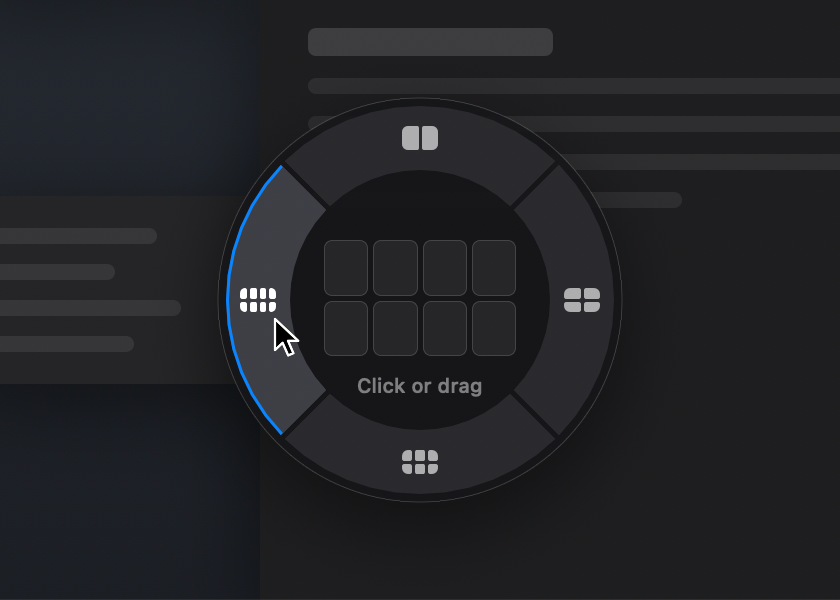
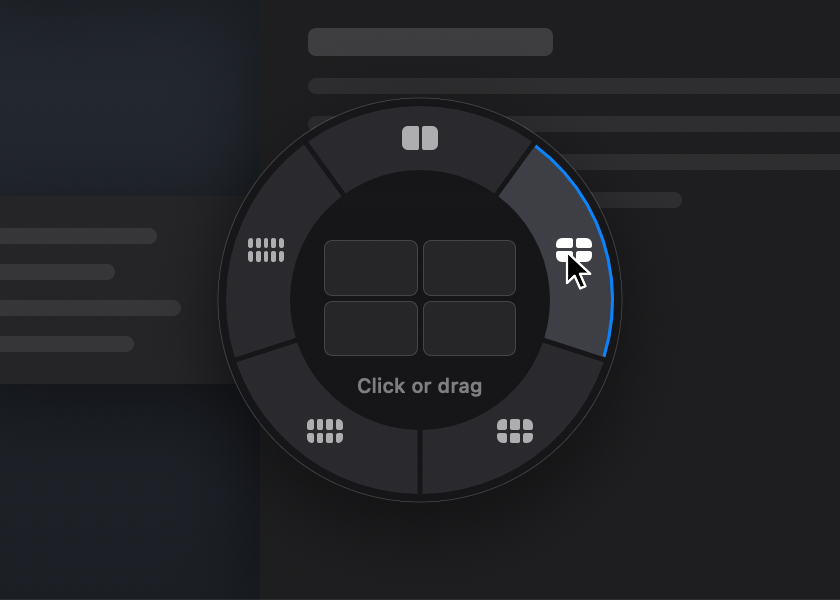
feat: fifth layout family (10 cells, 5x2) with an evenly divided ring
- Ring slices now split the circle by the number of families (72 degrees each)
- Key 0 selects the 10-cell family
- Tests and checks updated for the new angles; README, spec, GIF and images refreshed

diff --git a/Tests/OrbitileCoreTests/LayoutTests.swift b/Tests/OrbitileCoreTests/LayoutTests.swift
@@ -3,11 +3,30 @@ import CoreGraphics
 @testable import OrbitileCore
 
 @Suite struct LayoutTests {
-    @Test func ringPicksFamilyByQuadrant() {
-        #expect(FanGeometry.hit(CGPoint(x: 0, y: -80), expanded: nil) == .family(0))
-        #expect(FanGeometry.hit(CGPoint(x: 80, y: 0), expanded: nil) == .family(1))
-        #expect(FanGeometry.hit(CGPoint(x: 0, y: 80), expanded: nil) == .family(2))
-        #expect(FanGeometry.hit(CGPoint(x: -80, y: 0), expanded: nil) == .family(3))
+    private func onRing(_ degrees: Double, radius: Double = 80) -> CGPoint {
+        CGPoint(x: radius * cos(degrees * .pi / 180), y: radius * sin(degrees * .pi / 180))
+    }
+
+    @Test func ringPicksFamilyByAngle() {
+        for (i, f) in LayoutFamily.all.enumerated() {
+            #expect(FanGeometry.hit(onRing(f.angle), expanded: nil) == .family(i))
+        }
+    }
+
+    @Test func fiveFamiliesSitEvenlyFromTwelveOClock() {
+        let all = LayoutFamily.all
+        #expect(all.map(\.id) == [2, 4, 6, 8, 10])
+        #expect(all.map(\.angle) == [-90, -18, 54, 126, 198])
+        #expect(all[4].cols == 5 && all[4].rows == 2)
+        #expect(LayoutFamily.halfSpan == 36)
+    }
+
+    @Test func boundariesBetweenFamiliesSplitTheArc() {
+        // 36 degrees away from two neighbours: just before the edge belongs to the first, just after to the next.
+        #expect(FanGeometry.hit(onRing(-90 + 35), expanded: nil) == .family(0))
+        #expect(FanGeometry.hit(onRing(-90 + 37), expanded: nil) == .family(1))
+        #expect(FanGeometry.hit(onRing(198 + 35), expanded: nil) == .family(4))
+        #expect(FanGeometry.hit(onRing(198 + 37), expanded: nil) == .family(0))
     }
 
     @Test func centerAndOutsideAreInvalid() {
@@ -55,6 +74,7 @@ import CoreGraphics
 
     @Test func startsOnGivenFamily() {
         #expect(FanState(family: 3).familyIndex == 3)
+        #expect(FanState(family: 4).familyIndex == 4)
         #expect(FanState(family: 9).familyIndex == nil)
         #expect(FanState().familyIndex == nil)
     }
@@ -121,6 +141,14 @@ import CoreGraphics
         let r = FanGeometry.targetRect(eight, from: 2, to: 0, in: area, inset: 0)
         #expect(r == CGRect(x: 0, y: 100, width: 300, height: 100))
         #expect(r == FanGeometry.targetRect(eight, from: 0, to: 2, in: area, inset: 0))
+    }
+
+    @Test func tenCellFamilyMergesAcrossFiveColumns() {
+        let ten = LayoutFamily.all[4]
+        let r = FanGeometry.targetRect(ten, from: 0, to: 9, in: CGRect(x: 0, y: 0, width: 500, height: 200), inset: 0)
+        #expect(r == CGRect(x: 0, y: 0, width: 500, height: 200))
+        let mid = FanGeometry.targetRect(ten, from: 1, to: 3, in: CGRect(x: 0, y: 0, width: 500, height: 200), inset: 0)
+        #expect(mid == CGRect(x: 100, y: 100, width: 300, height: 100))
     }
 
     @Test func singleCellSpanEqualsCell() {

diff --git a/Sources/Orbitile/Scenes.swift b/Sources/Orbitile/Scenes.swift
@@ -30,7 +30,10 @@ enum Scenes {
             let r = FanGeometry.cellRect(family8, index: i)
             return CGPoint(x: center.x + r.midX, y: center.y + r.midY)
         }
-        func ring(_ dx: CGFloat, _ dy: CGFloat) -> CGPoint { CGPoint(x: center.x + dx, y: center.y + dy) }
+        func ring(family index: Int) -> CGPoint {
+            let a = LayoutFamily.all[index].angle * .pi / 180
+            return CGPoint(x: center.x + 82 * cos(a), y: center.y + 82 * sin(a))
+        }
 
         var frames: [Frame] = []
         var cursor = start
@@ -50,9 +53,9 @@ enum Scenes {
         add(10, open: 0, fan: false)                              // desktop, cursor on the window
         for i in 1...3 { add(1, open: Double(i) / 3) }            // 120 ms pop
         add(12)                                                   // family 8 already active
-        move(to: ring(82, 0), frames: 10); add(8)                 // family 4
-        move(to: ring(0, 82), frames: 10); add(8)                 // family 6
-        move(to: ring(-82, 0), frames: 10); add(6)                // family 8
+        move(to: ring(family: 1), frames: 10); add(8)                 // family 4
+        move(to: ring(family: 2), frames: 10); add(8)                 // family 6
+        move(to: ring(family: 3), frames: 10); add(6)                // family 8
         move(to: cellPoint(1), frames: 12); add(8)                // hover a cell
         add(4, drag: true)                                        // press
         move(to: cellPoint(2), frames: 6, drag: true); add(16, drag: true)  // merge, preview
@@ -140,7 +143,7 @@ enum Scenes {
             guard let f = last ? picks.last : picks.first else { return }
             write(f, to: URL(fileURLWithPath: "\(dir)/\(name).png"), scale: 2)
         }
-        still("still-open", where: { $0.showFan && !$0.dragging && $0.openProgress == 1 && $0.cursor.x < 330 })
+        still("still-open", where: { $0.showFan && !$0.dragging && $0.openProgress == 1 && hypot($0.cursor.x - 400, $0.cursor.y - 290) > 75 })
         still("still-click", where: { $0.showFan && $0.dragging })
         still("still-merge", where: { $0.showFan && $0.dragging }, last: true)
         print("frames: \(all.count)")

diff --git a/Sources/OrbitileCore/Layout.swift b/Sources/OrbitileCore/Layout.swift
@@ -2,7 +2,7 @@ import CoreGraphics
 import Foundation
 
 /// A tiling family: how many cells the screen is divided into.
-/// Placed on the fan at 12h (2), 3h (4), 6h (6) and 9h (8).
+/// The families sit evenly around the ring, the first at 12 o'clock, clockwise.
 public struct LayoutFamily: Equatable, Sendable {
     public let id: Int
     public let cols: Int
@@ -16,12 +16,15 @@ public struct LayoutFamily: Equatable, Sendable {
         (index % cols, index / cols)
     }
 
-    public static let all: [LayoutFamily] = [
-        LayoutFamily(id: 2, cols: 2, rows: 1, angle: -90),
-        LayoutFamily(id: 4, cols: 2, rows: 2, angle: 0),
-        LayoutFamily(id: 6, cols: 3, rows: 2, angle: 90),
-        LayoutFamily(id: 8, cols: 4, rows: 2, angle: 180),
-    ]
+    public static let all: [LayoutFamily] = {
+        let grids = [(2, 1), (2, 2), (3, 2), (4, 2), (5, 2)]
+        return grids.enumerated().map { i, g in
+            LayoutFamily(id: g.0 * g.1, cols: g.0, rows: g.1, angle: -90 + 360 / Double(grids.count) * Double(i))
+        }
+    }()
+
+    /// Half of the arc each family owns on the ring.
+    public static var halfSpan: Double { 180 / Double(all.count) }
 }
 
 public enum FanHit: Equatable, Sendable {

diff --git a/Sources/OrbitileChecks/main.swift b/Sources/OrbitileChecks/main.swift
@@ -7,10 +7,11 @@ func expect<T: Equatable>(_ a: T, _ b: T, _ name: String) {
     if a == b { print("ok   \(name)") } else { print("FAIL \(name): \(a) != \(b)"); failures += 1 }
 }
 
-expect(FanGeometry.hit(CGPoint(x: 0, y: -80), expanded: nil), .family(0), "ring 12h -> family 2")
-expect(FanGeometry.hit(CGPoint(x: 80, y: 0), expanded: nil), .family(1), "ring 3h -> family 4")
-expect(FanGeometry.hit(CGPoint(x: 0, y: 80), expanded: nil), .family(2), "ring 6h -> family 6")
-expect(FanGeometry.hit(CGPoint(x: -80, y: 0), expanded: nil), .family(3), "ring 9h -> family 8")
+func onRing(_ degrees: Double) -> CGPoint { CGPoint(x: 80 * cos(degrees * .pi / 180), y: 80 * sin(degrees * .pi / 180)) }
+for (i, f) in LayoutFamily.all.enumerated() {
+    expect(FanGeometry.hit(onRing(f.angle), expanded: nil), .family(i), "ring angle \(f.angle) -> family \(f.id)")
+}
+expect(LayoutFamily.all.map(\.id), [2, 4, 6, 8, 10], "five families: 2, 4, 6, 8, 10")
 expect(FanGeometry.hit(CGPoint(x: 0, y: 40), expanded: nil), .none, "center without grid is invalid")
 expect(FanGeometry.hit(CGPoint(x: 200, y: 0), expanded: nil), .none, "outside fan is invalid")
 

diff --git a/Sources/Orbitile/FanView.swift b/Sources/Orbitile/FanView.swift
@@ -99,13 +99,14 @@ private func polar(_ r: CGFloat, _ degrees: Double) -> CGSize {
     return CGSize(width: r * cos(a), height: r * sin(a))
 }
 
-/// Annular sector centered on `angle`, ±45°, with a constant gap between neighbours.
+/// Annular sector centered on `angle`, covering the family's share of the ring, with a constant gap between neighbours.
 private struct Blade: Shape {
     let r0: CGFloat, r1: CGFloat, angle: Double, gap: CGFloat
 
     func path(in rect: CGRect) -> Path {
         let o = CGPoint(x: rect.midX, y: rect.midY)
-        let a0 = angle - 45, a1 = angle + 45, h = gap / 2
+        let half = LayoutFamily.halfSpan
+        let a0 = angle - half, a1 = angle + half, h = gap / 2
         let dO = asin(min(0.99, h / r1)) * 180 / .pi
         let dI = asin(min(0.99, h / r0)) * 180 / .pi
         let n = 12

diff --git a/Sources/Orbitile/MouseTap.swift b/Sources/Orbitile/MouseTap.swift
@@ -13,10 +13,10 @@ final class MouseTap {
     private static let middleButton: Int64 = 2
     private static let escapeKey: Int64 = 53
 
-    /// Main row and keypad 2 / 4 / 6 / 8 -> family index.
+    /// Main row and keypad 2 / 4 / 6 / 8 / 0 (for 10) -> family index.
     private static let familyKeys: [Int64: Int] = [
-        19: 0, 21: 1, 22: 2, 28: 3,
-        84: 0, 86: 1, 88: 2, 91: 3,
+        19: 0, 21: 1, 22: 2, 28: 3, 29: 4,
+        84: 0, 86: 1, 88: 2, 91: 3, 82: 4,
     ]
 
     private var tap: CFMachPort?

diff --git a/Sources/Orbitile/main.swift b/Sources/Orbitile/main.swift
@@ -175,6 +175,7 @@ func renderSnapshots(to dir: String) {
     render("open", family: 3, cell: nil, drag: nil)
     render("hover", family: 1, cell: 2, drag: nil)
     render("drag", family: 3, cell: 2, drag: 1)
+    render("ten", family: 4, cell: 6, drag: nil)
 
     // Menu bar mark at 1x, 2x and 12x, on light and dark bars.
     let icon = MenuBarIcon.make()

diff --git a/README.md b/README.md
@@ -17,7 +17,7 @@
 
 ## What it does
 
-Hover a window, click the middle button, and a ring of four layouts opens around the cursor. Move to a layout, pick a cell on the mini screen, and the window moves there. A blue preview shows the exact destination on your real screen before you commit.
+Hover a window, click the middle button, and a ring of five layouts opens around the cursor. Move to a layout, pick a cell on the mini screen, and the window moves there. A blue preview shows the exact destination on your real screen before you commit.
 
 | Open | Click a cell | Drag to merge | Preview on screen |
 | :---: | :---: | :---: | :---: |
@@ -26,12 +26,15 @@ Hover a window, click the middle button, and a ring of four layouts opens around
 
 ### Layouts
 
-| Family | Position on the ring | Grid | Key |
-| :---: | :---: | :---: | :---: |
-| 2 | 12 o'clock | 2 × 1 | `2` |
-| 4 | 3 o'clock | 2 × 2 | `4` |
-| 6 | 6 o'clock | 3 × 2 | `6` |
-| 8 | 9 o'clock | 4 × 2 | `8` |
+The ring has five equal slices, starting at 12 o'clock and going clockwise.
+
+| Family | Cells | Grid | Position on the ring | Key |
+| :---: | :---: | :---: | :---: | :---: |
+| 2 | 2 | 2 × 1 | 12 o'clock | `2` |
+| 4 | 4 | 2 × 2 | about 2 o'clock | `4` |
+| 6 | 6 | 3 × 2 | about 5 o'clock | `6` |
+| 8 | 8 | 4 × 2 | about 7 o'clock | `8` |
+| 10 | 10 | 5 × 2 | about 10 o'clock | `0` |
 
 ## Requirements
 
@@ -73,7 +76,7 @@ Builds are ad-hoc signed, and macOS ties the Accessibility grant to the signatur
 
 1. Hover the window you want to move.
 2. **Click the middle button once and release.** You do not need to hold it. The fan opens centered on the cursor, and slides to stay on screen near the edges.
-3. Hover a layout on the ring, or press `2`, `4`, `6` or `8`.
+3. Hover a layout on the ring, or press `2`, `4`, `6`, `8` or `0` (for the 10-cell layout).
 4. Point at a cell on the mini screen. The blue preview shows where the window will go.
 5. **Click a cell** to apply instantly, or **press and drag across several cells** and release to merge them into one area.
 
@@ -82,7 +85,7 @@ Builds are ad-hoc signed, and macOS ties the Accessibility grant to the signatur
 | Action | How |
 | --- | --- |
 | Open | Middle click on a window |
-| Switch layout | Hover the ring, or press `2` `4` `6` `8` |
+| Switch layout | Hover the ring, or press `2` `4` `6` `8` `0` |
 | Apply to one cell | Left click the cell, or middle click while hovering it |
 | Merge cells | Press on a cell, drag over others, release |
 | Cancel | `Esc`, click outside the disc, or middle click with no cell hovered |

diff --git a/spec.md b/spec.md
@@ -101,7 +101,8 @@ As imagens em `docs/images/` agora são renderizadas pelas próprias views Swift
 
 ## 10. Opcional / depois
 
-- [ ] Famílias extras (1/3, 2/3, 1/5) exploradas em [design/](design/Orbitile%20refinamento%20visual%20MVP/Orbitile%20Refinamento.dc.html).
+- [x] Quinta família de 10 células (5 × 2) no anel, com a tecla `0`. O anel divide o círculo em fatias iguais conforme o número de famílias.
+- [ ] Outras famílias exploradas em [design/](design/Orbitile%20refinamento%20visual%20MVP/Orbitile%20Refinamento.dc.html).
 - [ ] Modo claro do disco.
 - [ ] Acessibilidade do overlay (VoiceOver, Reduce Motion desliga as animações).
 - [ ] Localização: textos do hint hoje só em inglês.
